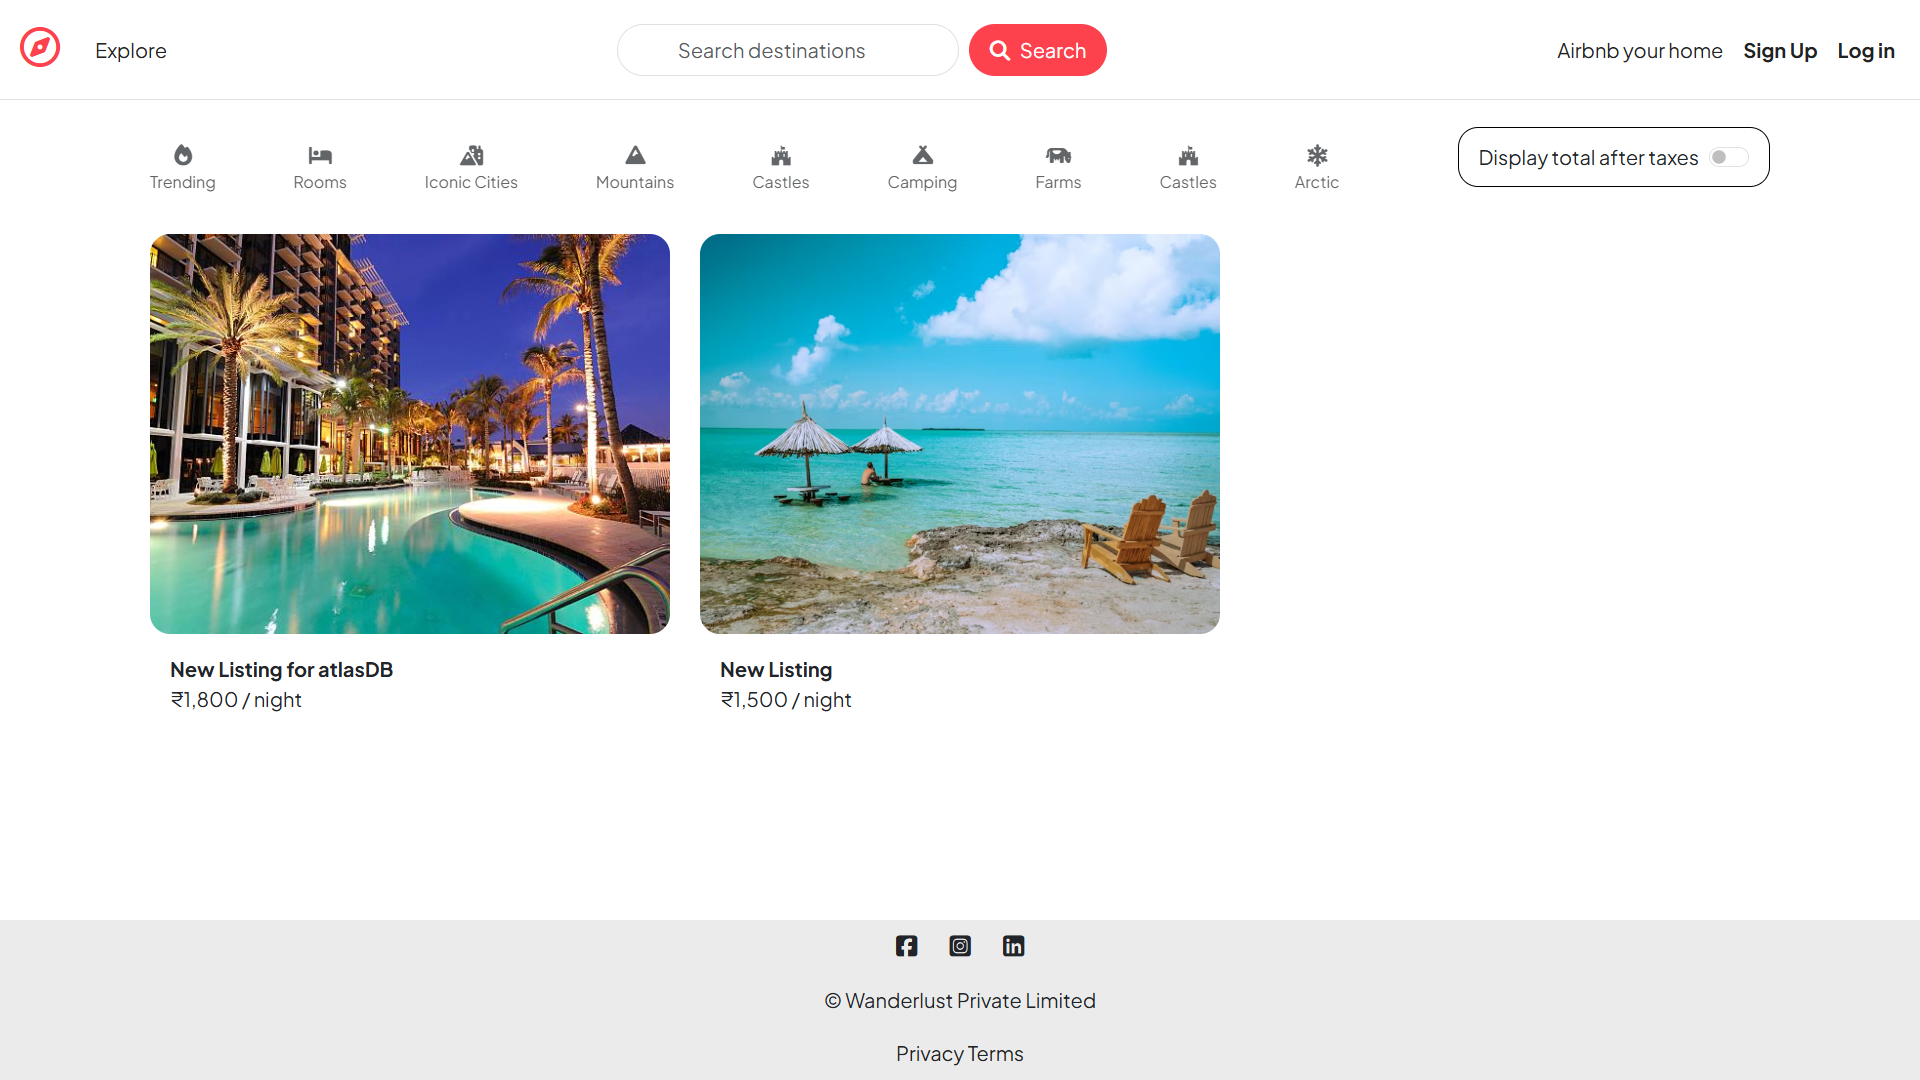
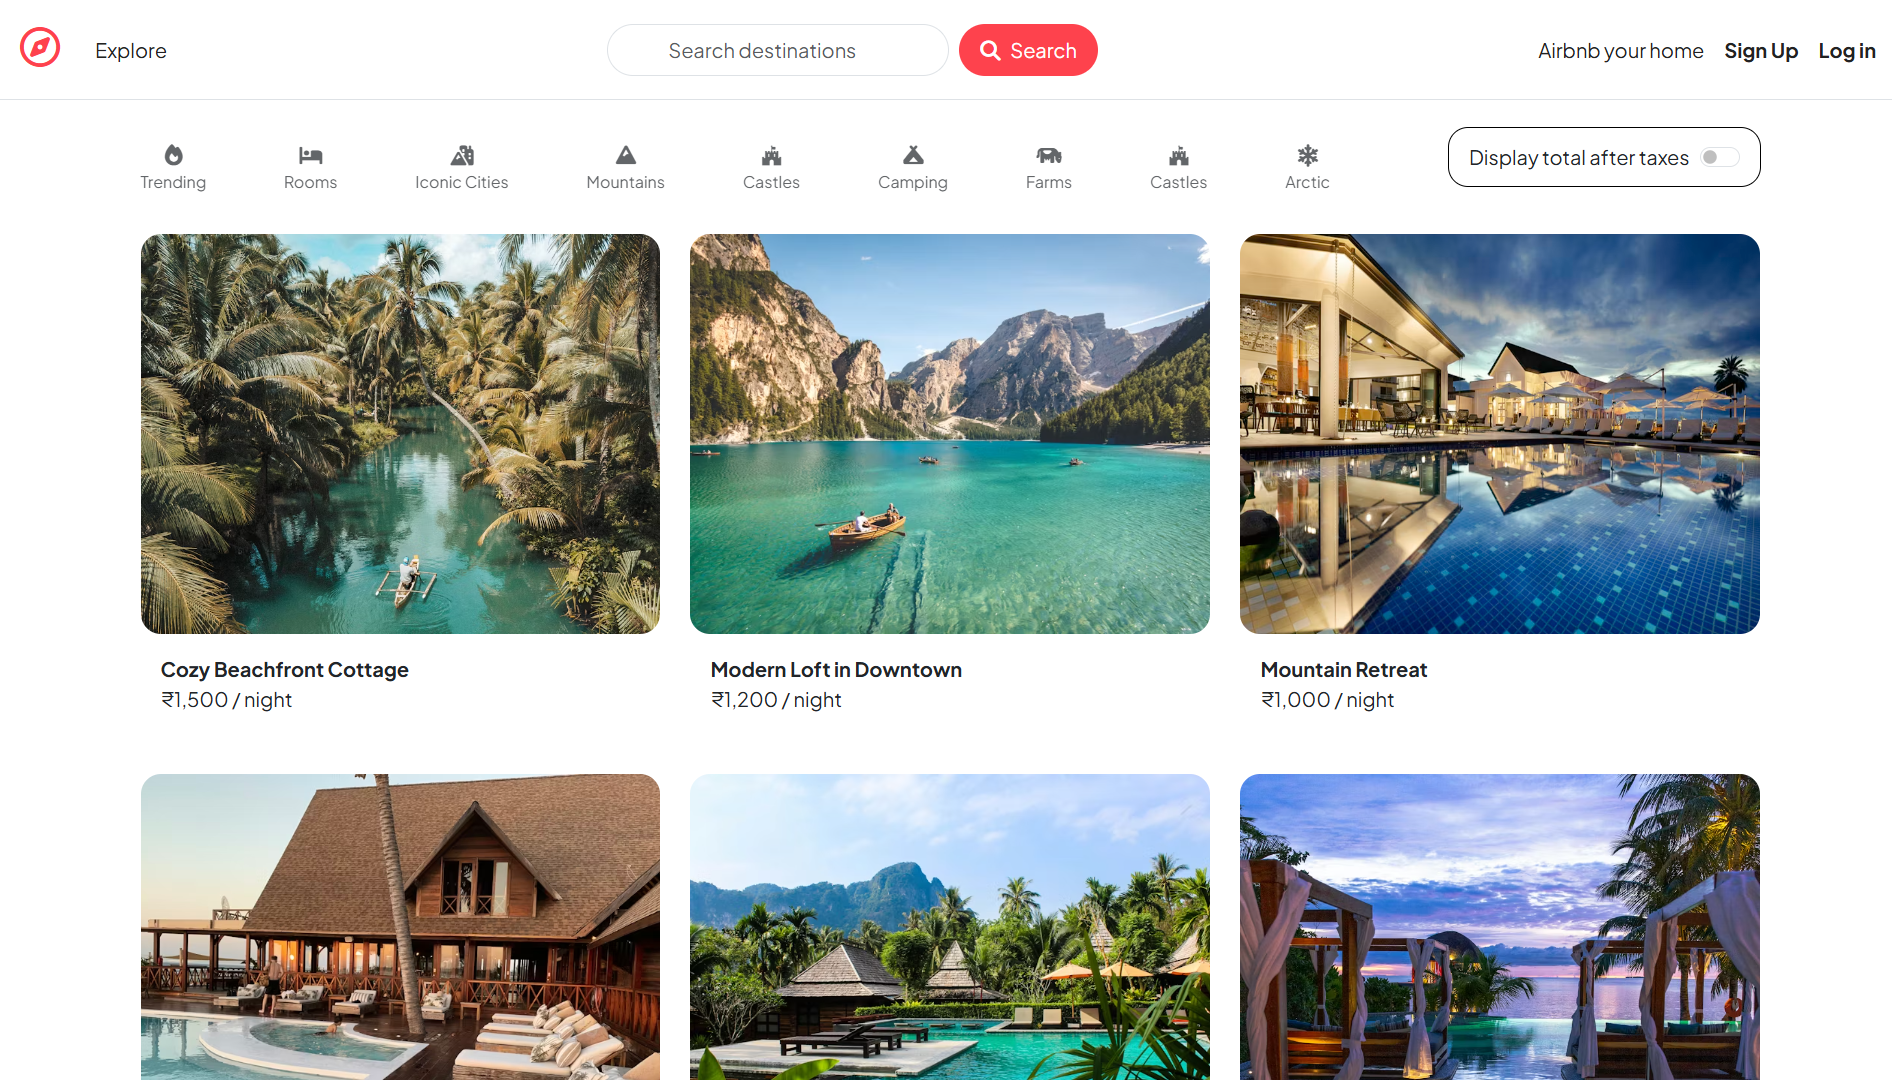
changed some images

diff --git a/index.html b/index.html
@@ -225,7 +225,7 @@
           </span>
 
           <div class="project-links">
-            <a href="#" target="_blank" class="btn">
+            <a href="#" class="btn">
                 Live Demo
             </a>
           </div>
